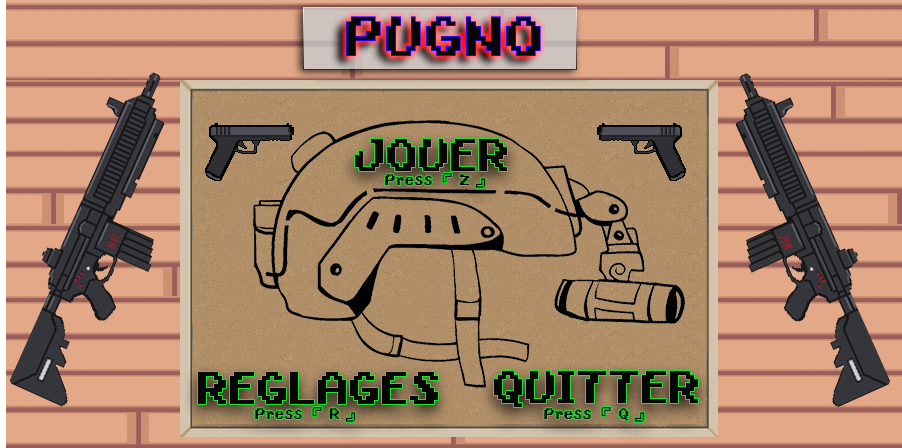
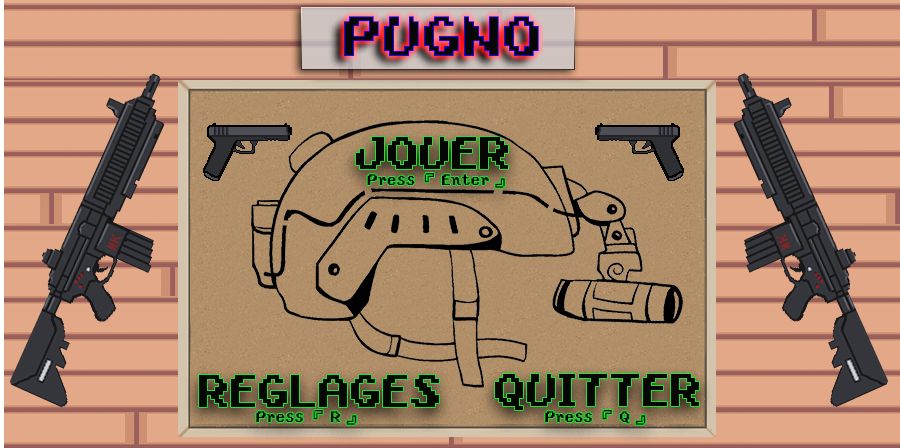
starting-screen_ok

diff --git a/src/scenes/structure/Tableau.js b/src/scenes/structure/Tableau.js
@@ -115,7 +115,7 @@ class Tableau extends Phaser.Scene{
                 tono.isDead=true;
                 tono.visible=false;
 
-                this.sound.play('barrel', {volume : 2 });
+                this.sound.play('barrel', {volume : 0.9 });
 
                 // this.saigne(tono,function(){
 
@@ -161,7 +161,7 @@ class Tableau extends Phaser.Scene{
                 mine.isDead=true;
                 mine.visible=false;
 
-                this.sound.play('mines', {volume : 0.2 });
+                this.sound.play('mines', {volume : 0.6 });
 
                 // this.saigne(mine,function(){
 

diff --git a/src/scenes/Tableau_start.js b/src/scenes/Tableau_start.js
@@ -20,7 +20,7 @@ class Tableau_start extends Tableau {
 
         this.add.image(448,224,'fond');
 
-        this.boutonstart = this.add.image(428,162, 'start');
+        this.boutonstart = this.add.image(430,160, 'start');
         this.boutonstart.setInteractive();
         this.boutonstart.on('pointerdown', function () {
 
